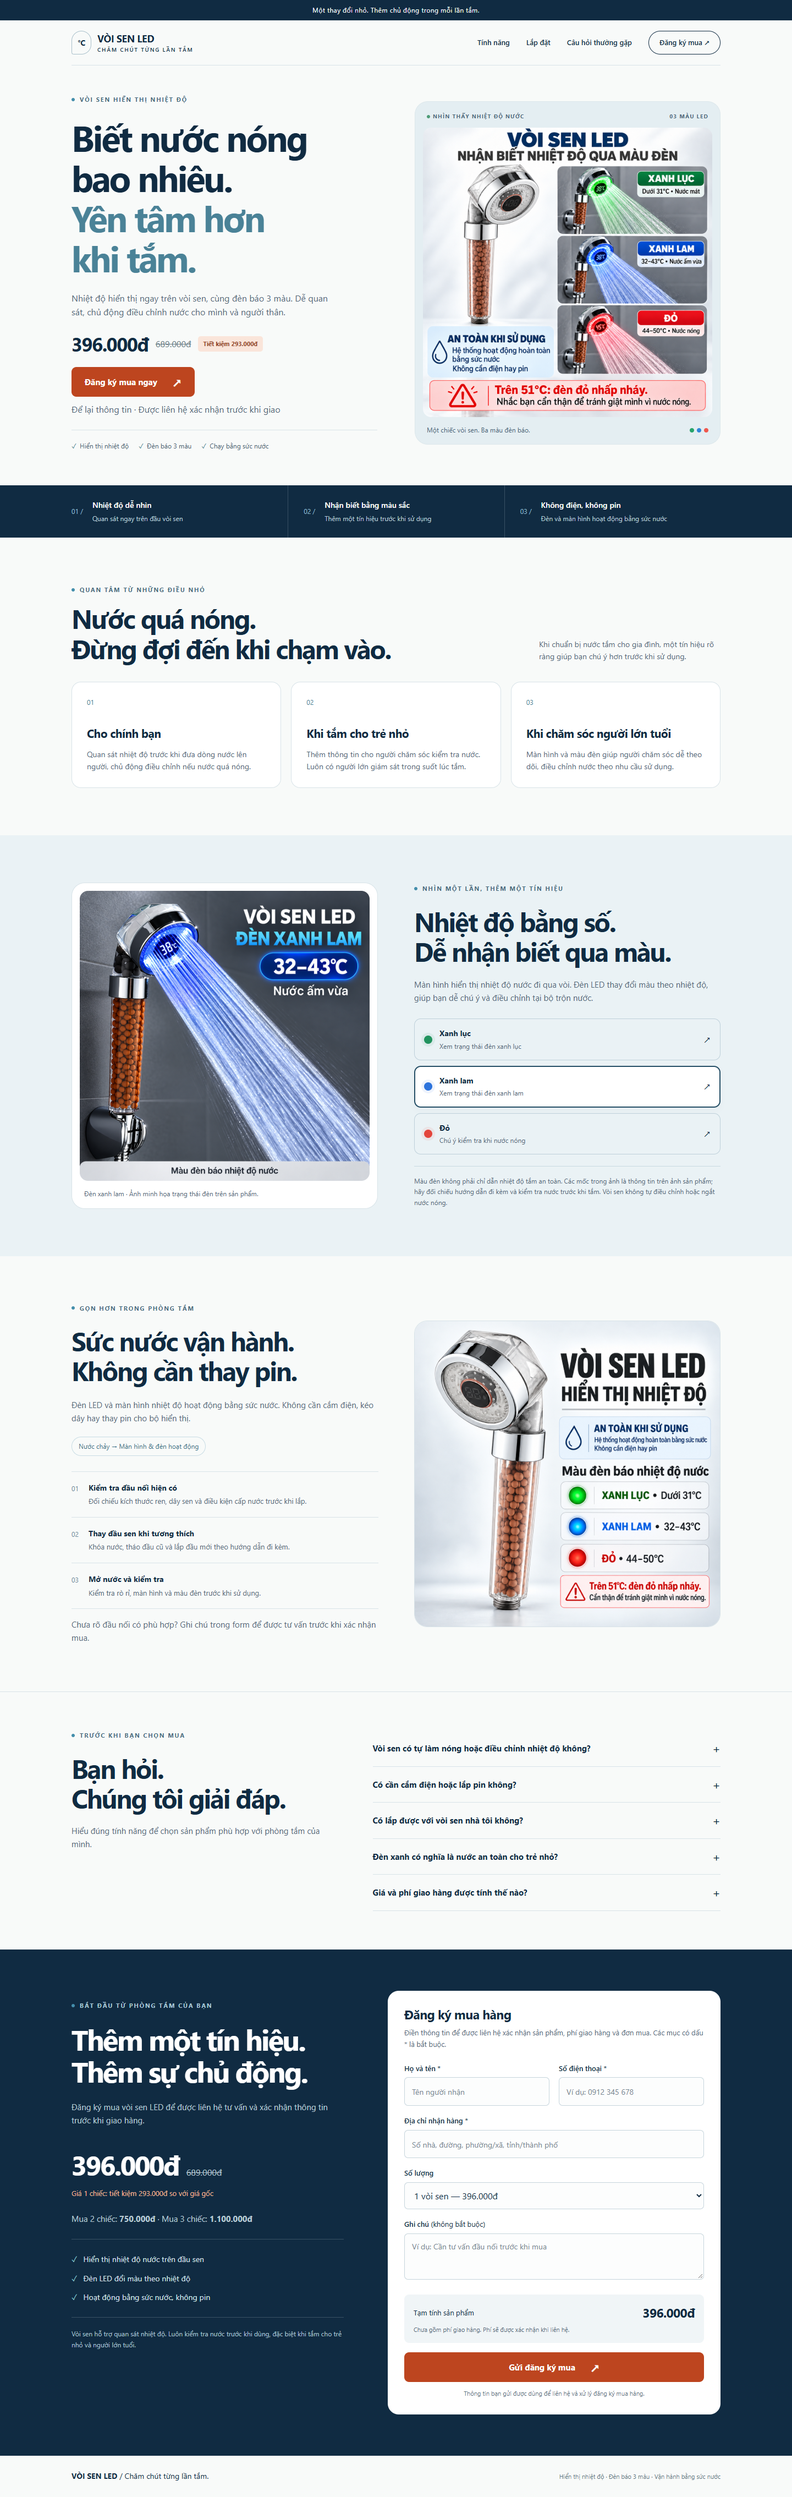
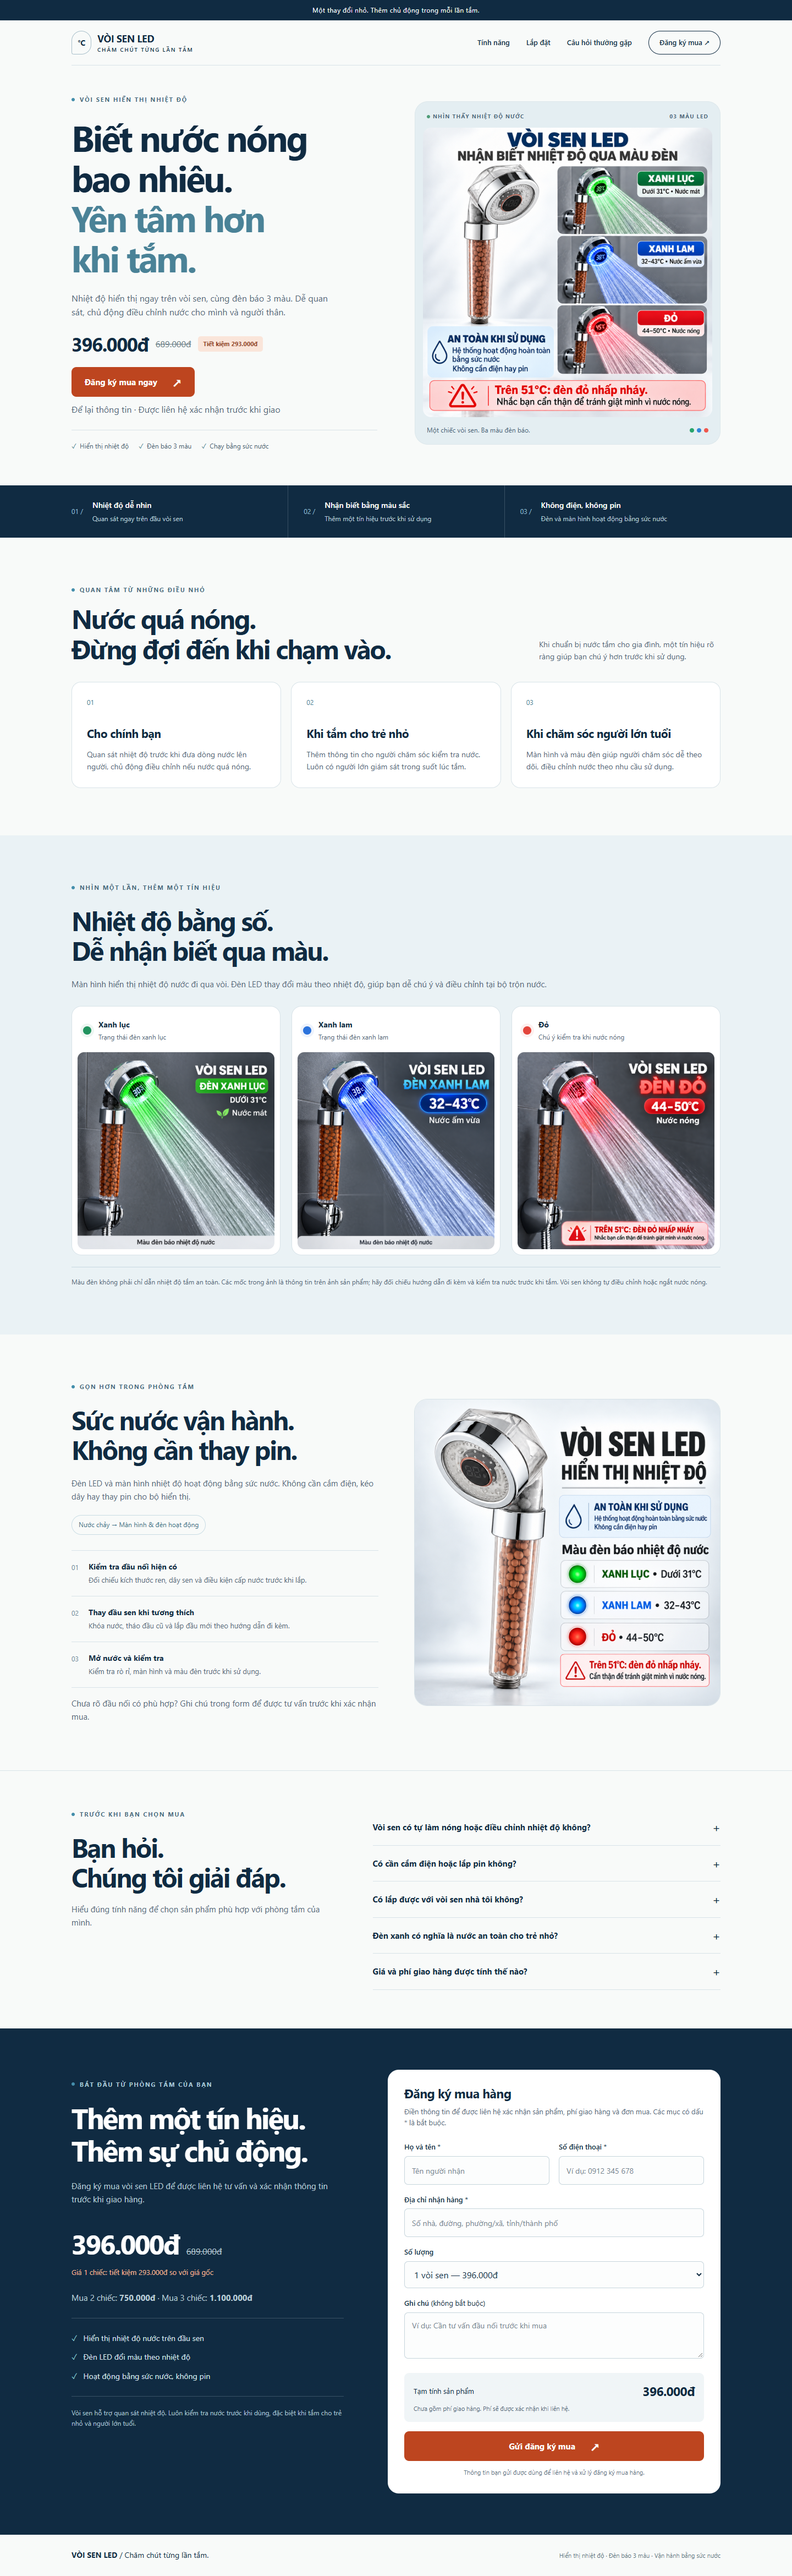
update

diff --git a/index.html b/index.html
@@ -475,40 +475,41 @@
       }
 
       .color-layout {
+        display: block;
+      }
+      .color-cards {
         display: grid;
-        grid-template-columns: 1fr 1fr;
-        gap: 66px;
-        align-items: center;
+        grid-template-columns: repeat(3, minmax(0, 1fr));
+        gap: 20px;
+        margin-top: 28px;
       }
-
-      .gallery {
-        background: #fff;
-        border-radius: var(--radius);
-        padding: 14px;
+      .color-card {
+        margin: 0;
+        padding: 10px;
+        background: white;
         border: 1px solid var(--line);
+        border-radius: 18px;
+        overflow: hidden;
       }
-
-      .gallery img {
+      .color-card .color-choice {
+        border: 0;
+        padding: 12px 10px 18px;
+      }
+      .color-card img {
         width: 100%;
         height: auto;
-        border-radius: 15px;
+        border-radius: 12px;
       }
-
-      .gallery-caption {
-        font-size: 12px;
-        padding: 14px 8px 2px;
-        color: var(--muted);
+      @media (max-width: 700px) {
+        .color-cards {
+          grid-template-columns: 1fr;
+          gap: 22px;
+        }
       }
 
       .color-copy > p {
         margin-top: 22px;
         font-size: 15px;
-      }
-
-      .color-buttons {
-        display: grid;
-        gap: 10px;
-        margin-top: 26px;
       }
 
       .color-choice {
@@ -522,13 +523,6 @@
         padding: 15px 17px;
         color: var(--ink);
         min-height: 72px;
-      }
-
-      .color-choice[aria-pressed="true"] {
-        background: white;
-        border: 2px solid #254f66;
-        padding: 14px 16px;
-        box-shadow: 0 5px 12px #102b4208;
       }
 
       .swatch {
@@ -560,11 +554,6 @@
         color: var(--muted);
         font-size: 12px;
         margin-top: 2px;
-      }
-
-      .choice-arrow {
-        margin-left: auto;
-        font-size: 18px;
       }
 
       .color-note {
@@ -1232,21 +1221,8 @@
           margin-top: 18px;
         }
 
-        .color-buttons {
-          margin-top: 23px;
-        }
-
         .color-choice {
           min-height: 66px;
-        }
-
-        .gallery {
-          padding: 10px;
-          border-radius: 18px;
-        }
-
-        .gallery-caption {
-          font-size: 11px;
         }
 
         .power-copy {
@@ -1576,19 +1552,6 @@
         aria-labelledby="color-title"
       >
         <div class="container color-layout">
-          <div class="gallery">
-            <img
-              id="galleryImage"
-              src="xanh-lam.png"
-              width="1254"
-              height="1254"
-              loading="lazy"
-              alt="Ảnh vòi sen LED phát ánh sáng xanh lam và hiển thị nhiệt độ"
-            />
-            <p class="gallery-caption" id="galleryCaption" aria-live="polite">
-              Đèn xanh lam · Ảnh minh họa trạng thái đèn trên sản phẩm.
-            </p>
-          </div>
           <div class="color-copy">
             <div class="eyebrow">Nhìn một lần, thêm một tín hiệu</div>
             <h2 id="color-title">
@@ -1598,55 +1561,57 @@
               Màn hình hiển thị nhiệt độ nước đi qua vòi. Đèn LED thay đổi màu
               theo nhiệt độ, giúp bạn dễ chú ý và điều chỉnh tại bộ trộn nước.
             </p>
-            <div
-              class="color-buttons"
-              role="group"
-              aria-label="Xem ảnh các trạng thái đèn LED"
-            >
-              <button
-                class="color-choice"
-                type="button"
-                data-gallery="green"
-                aria-pressed="false"
-                aria-controls="galleryImage"
-              >
-                <span class="swatch" aria-hidden="true"></span
-                ><span
-                  ><strong>Xanh lục</strong
-                  ><small>Xem trạng thái đèn xanh lục</small></span
-                ><span class="choice-arrow" aria-hidden="true">↗</span></button
-              ><button
-                class="color-choice"
-                type="button"
-                data-gallery="blue"
-                aria-pressed="true"
-                aria-controls="galleryImage"
-              >
-                <span class="swatch blue" aria-hidden="true"></span
-                ><span
-                  ><strong>Xanh lam</strong
-                  ><small>Xem trạng thái đèn xanh lam</small></span
-                ><span class="choice-arrow" aria-hidden="true">↗</span></button
-              ><button
-                class="color-choice"
-                type="button"
-                data-gallery="red"
-                aria-pressed="false"
-                aria-controls="galleryImage"
-              >
-                <span class="swatch red" aria-hidden="true"></span
-                ><span
-                  ><strong>Đỏ</strong
-                  ><small>Chú ý kiểm tra khi nước nóng</small></span
-                ><span class="choice-arrow" aria-hidden="true">↗</span>
-              </button>
+            <div class="color-cards">
+              <figure class="color-card">
+                <figcaption class="color-choice">
+                  <span class="swatch" aria-hidden="true"></span>
+                  <span
+                    ><strong>Xanh lục</strong
+                    ><small>Trạng thái đèn xanh lục</small></span
+                  >
+                </figcaption>
+                <img
+                  src="xanh-luc.png"
+                  width="1254"
+                  height="1254"
+                  loading="lazy"
+                  alt="Vòi sen LED hiển thị nhiệt độ với đèn xanh lục"
+                />
+              </figure>
+              <figure class="color-card">
+                <figcaption class="color-choice">
+                  <span class="swatch blue" aria-hidden="true"></span>
+                  <span
+                    ><strong>Xanh lam</strong
+                    ><small>Trạng thái đèn xanh lam</small></span
+                  >
+                </figcaption>
+                <img
+                  src="xanh-lam.png"
+                  width="1254"
+                  height="1254"
+                  loading="lazy"
+                  alt="Vòi sen LED hiển thị nhiệt độ với đèn xanh lam"
+                />
+              </figure>
+              <figure class="color-card">
+                <figcaption class="color-choice">
+                  <span class="swatch red" aria-hidden="true"></span>
+                  <span
+                    ><strong>Đỏ</strong
+                    ><small>Chú ý kiểm tra khi nước nóng</small></span
+                  >
+                </figcaption>
+                <img
+                  src="mau-do.png"
+                  width="1254"
+                  height="1254"
+                  loading="lazy"
+                  alt="Vòi sen LED hiển thị nhiệt độ với đèn đỏ"
+                />
+              </figure>
             </div>
-            <p class="color-note">
-              Màu đèn không phải chỉ dẫn nhiệt độ tắm an toàn. Các mốc trong ảnh
-              là thông tin trên ảnh sản phẩm; hãy đối chiếu hướng dẫn đi kèm và
-              kiểm tra nước trước khi tắm. Vòi sen không tự điều chỉnh hoặc ngắt
-              nước nóng.
-            </p>
+
           </div>
         </div>
       </section>
@@ -1657,7 +1622,9 @@
       >
         <div class="power-copy">
           <div class="eyebrow">Gọn hơn trong phòng tắm</div>
-          <h2 id="power-title">Sức nước vận hành.<br />Không cần thay pin.</h2>
+          <h2 id="power-title">
+            Sức nước vận hành.<br />Không cần điện không cần pin.
+          </h2>
           <p>
             Đèn LED và màn hình nhiệt độ hoạt động bằng sức nước. Không cần cắm
             điện, kéo dây hay thay pin cho bộ hiển thị.
@@ -1718,16 +1685,6 @@
           </div>
           <div class="faq-list">
             <details>
-              <summary>
-                Vòi sen có tự làm nóng hoặc điều chỉnh nhiệt độ không?
-              </summary>
-              <p>
-                Không. Sản phẩm hiển thị nhiệt độ và đổi màu đèn theo nhiệt độ
-                nước. Bạn vẫn cần điều chỉnh nước ở bộ trộn nóng lạnh; vòi không
-                tự ngắt nước nóng.
-              </p>
-            </details>
-            <details>
               <summary>Có cần cắm điện hoặc lắp pin không?</summary>
               <p>
                 Không. Theo thông tin sản phẩm được cung cấp, đèn và màn hình
@@ -1739,9 +1696,7 @@
             <details>
               <summary>Có lắp được với vòi sen nhà tôi không?</summary>
               <p>
-                Khả năng lắp phụ thuộc đầu nối, dây sen và điều kiện cấp nước.
-                Bạn có thể ghi chú loại vòi đang dùng trong form để được tư vấn
-                trước khi xác nhận mua.
+                Lắp đặt và thay thế được hầu hết với các hệ thống vòi sen hiện nay
               </p>
             </details>
             <details>
@@ -1757,8 +1712,7 @@
               <p>
                 Mua 1 chiếc giá 396.000đ (giá gốc 689.000đ); mua 2 chiếc tổng
                 750.000đ; mua 3 chiếc tổng 1.100.000đ. Tổng trong form là tiền
-                sản phẩm, chưa gồm phí giao hàng. Phí giao hàng và thông tin mua
-                sẽ được xác nhận khi liên hệ với bạn.
+                sản phẩm đã bao gồm phí giao hàng
               </p>
             </details>
           </div>
@@ -1927,30 +1881,6 @@
     </div>
     <script>
       "use strict";
-      const galleryItems = {
-        green: { src: "xanh-luc.png", name: "xanh lục" },
-        blue: { src: "xanh-lam.png", name: "xanh lam" },
-        red: { src: "mau-do.png", name: "đỏ" },
-      };
-      document.querySelectorAll("[data-gallery]").forEach((button) =>
-        button.addEventListener("click", () => {
-          const item = galleryItems[button.dataset.gallery];
-          document.getElementById("galleryImage").src = item.src;
-          document.getElementById("galleryImage").alt =
-            "Ảnh vòi sen LED phát ánh sáng " +
-            item.name +
-            " và hiển thị nhiệt độ";
-          document.getElementById("galleryCaption").textContent =
-            "Đèn " +
-            item.name +
-            " · Ảnh minh họa trạng thái đèn trên sản phẩm.";
-          document
-            .querySelectorAll("[data-gallery]")
-            .forEach((other) =>
-              other.setAttribute("aria-pressed", String(other === button)),
-            );
-        }),
-      );
       const PRODUCT_PRICE = 396000;
       const PRICE_BY_QUANTITY = { 1: 396000, 2: 750000, 3: 1100000 };
       const scriptURL =

diff --git a/docs/shower-design.md b/docs/shower-design.md
@@ -6,11 +6,11 @@
 - Dùng nguyên ảnh sản phẩm, giữ đầy đủ nội dung trong ảnh. Không tạo hình ảnh hoặc lời chứng thực giả.
 - Desktop: hero hai cột, nội dung và ảnh cân bằng. Mobile: tiêu đề → ảnh sản phẩm → diễn giải, giá và CTA; thanh đăng ký cố định giúp truy cập form, ẩn khi form đi vào màn hình.
 - Hành trình: hiểu sản phẩm → nhu cầu gia đình → xem ba trạng thái đèn → cách vận hành/lắp đặt → FAQ → đăng ký mua.
-- Gallery có nút chọn xanh lục, xanh lam, đỏ, nhãn chữ và trạng thái được chọn; đây là minh họa trạng thái đèn, không phải biến thể để đặt mua.
+- Ba ảnh xanh lục, xanh lam, đỏ hiển thị sẵn dưới nhãn tương ứng, xếp dọc trên mobile và ba cột trên desktop; đây là minh họa trạng thái đèn, không phải biến thể để đặt mua.
 - Giá gói: 1 chiếc 396.000đ, 2 chiếc 750.000đ, 3 chiếc 1.100.000đ. Tổng trong form chưa gồm phí giao hàng.
 
 ## Nghiệm thu
 - Kiểm tra viewport 320, 360, 390, 430 và 1440 CSS px: không tràn ngang, ảnh tải được.
-- Kiểm tra chọn trạng thái đèn, số lượng và tổng tiền, lỗi form, focus tới trường lỗi, trạng thái gửi và kết quả.
+- Kiểm tra ba ảnh màu hiển thị sẵn, số lượng và tổng tiền, lỗi form, focus tới trường lỗi, trạng thái gửi và kết quả.
 - Dùng request mock để kiểm tra; không gửi đăng ký thật vào Sheet.
 - Ảnh giao diện và kết quả kiểm tra được lưu trong `artifacts/`. Chưa kiểm tra trên điện thoại vật lý hoặc đo chuyển đổi.
